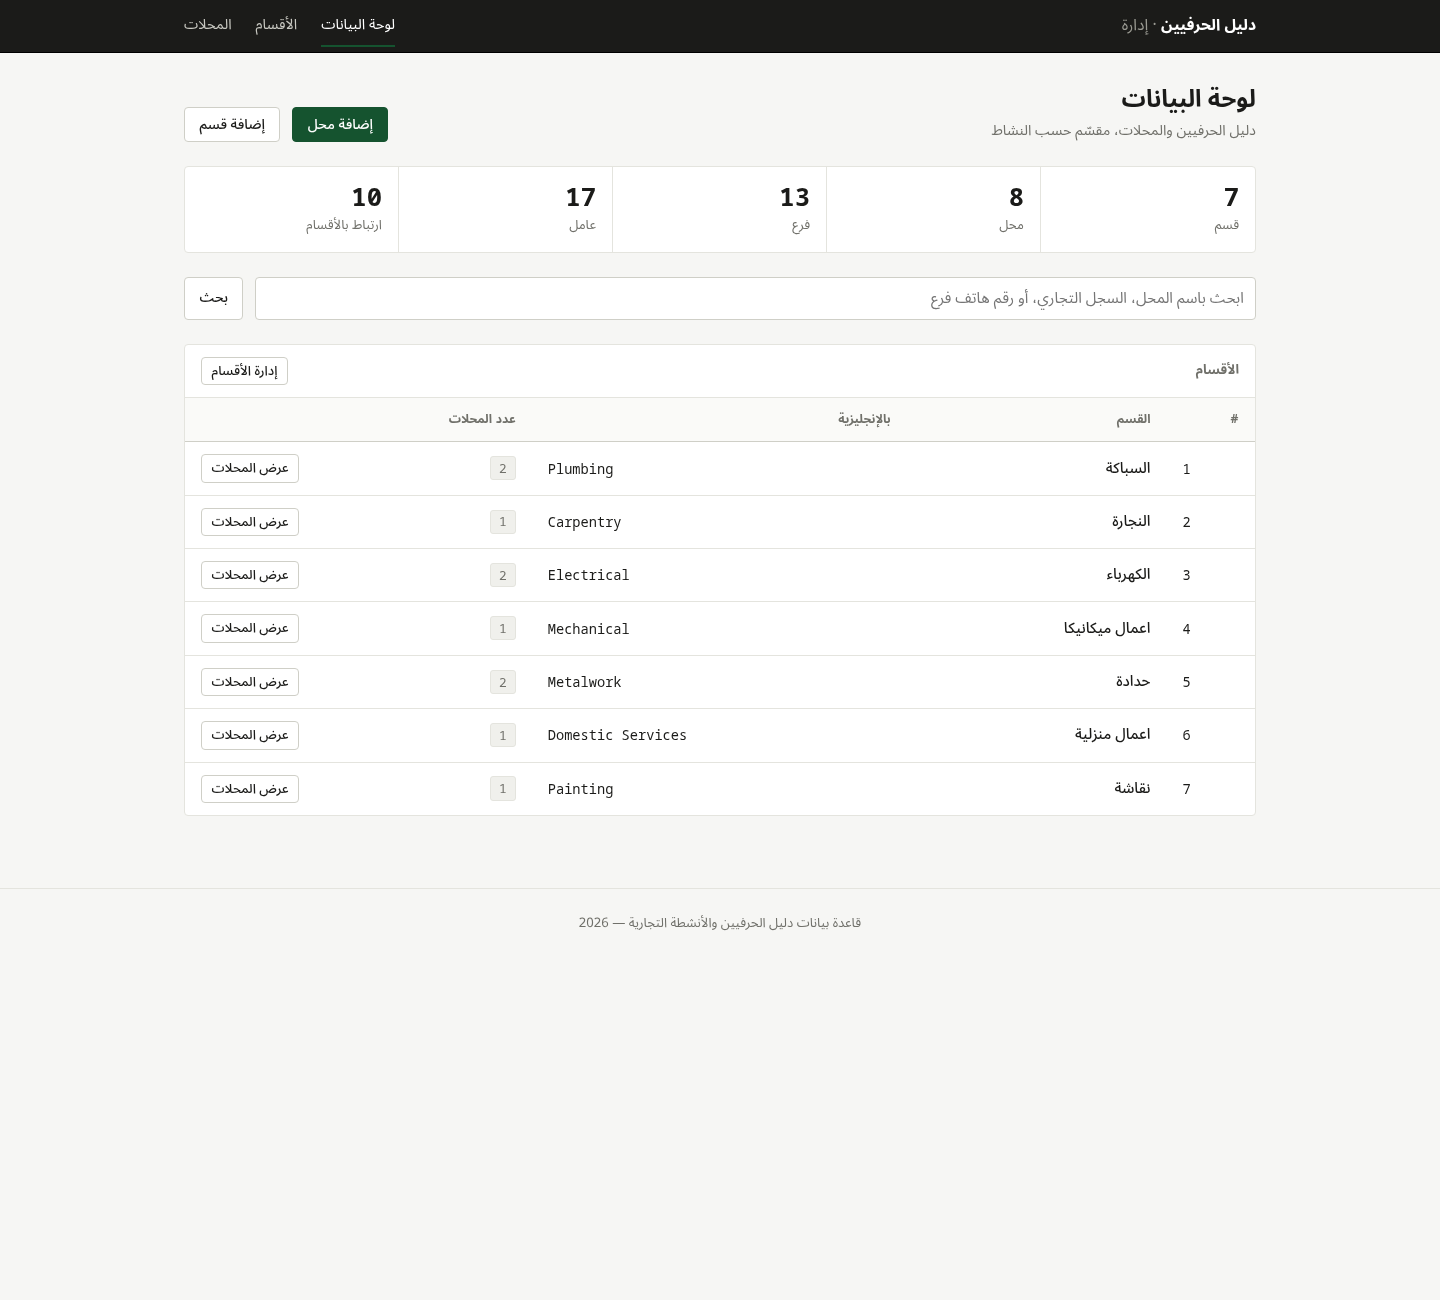
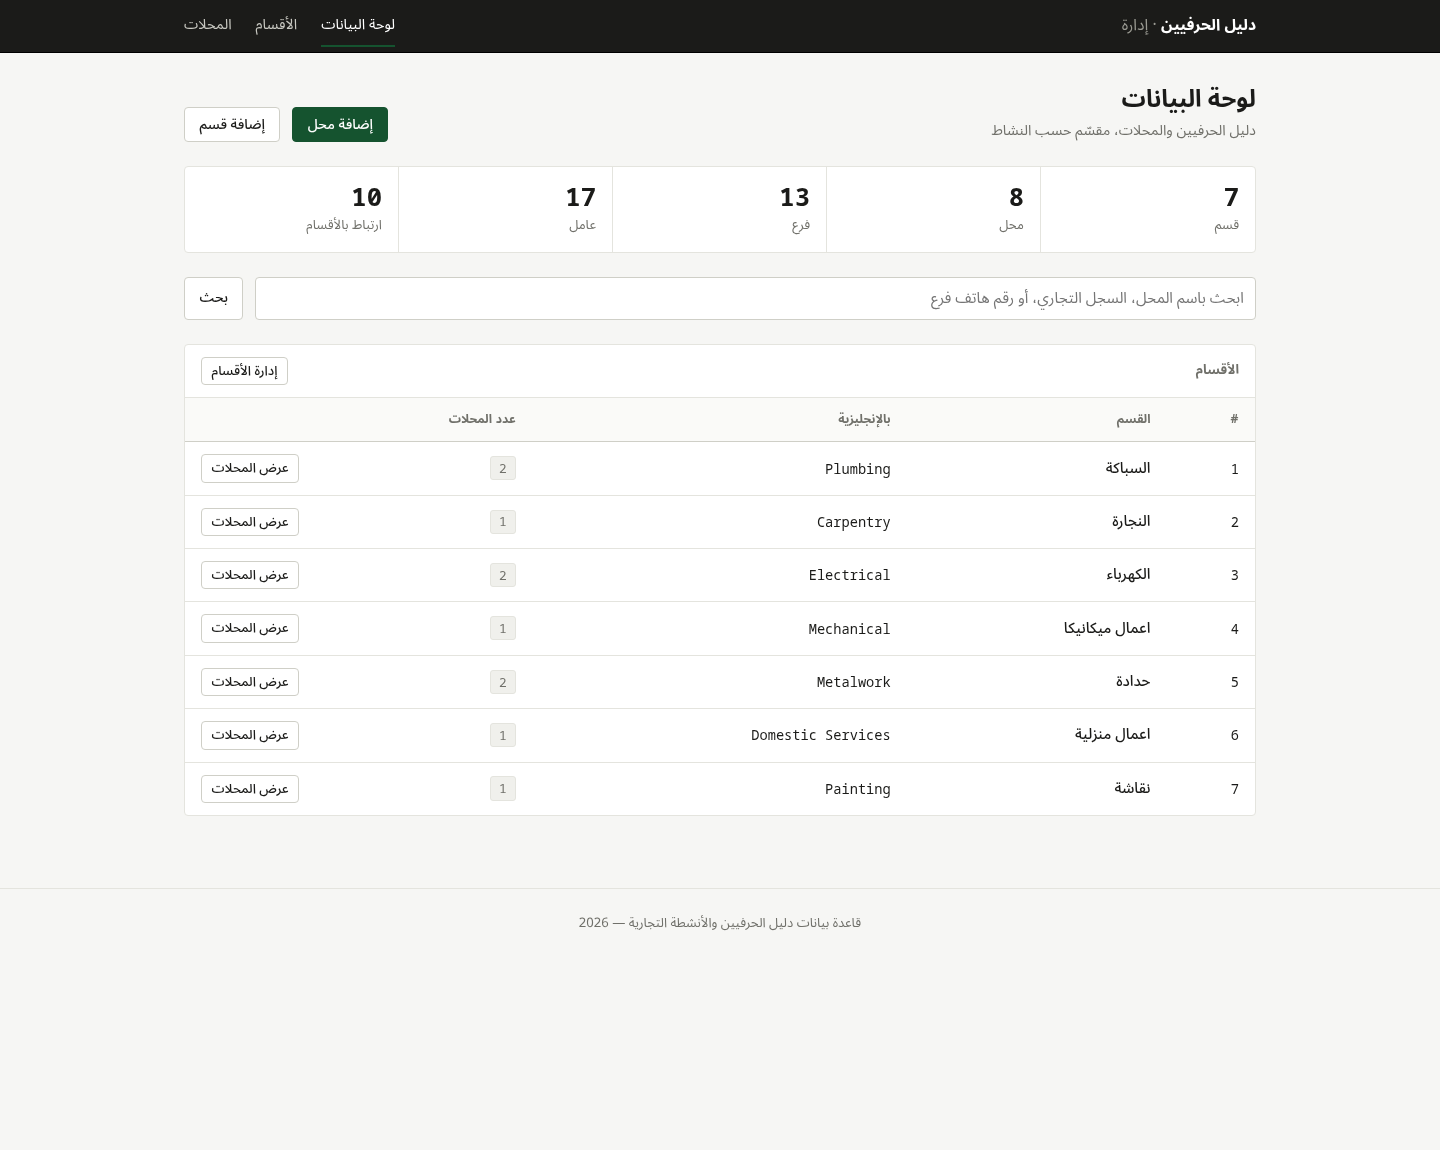
Align table columns under their headers
Identifier cells carry direction: ltr so Latin text and digits order
correctly, and under that direction text-align: start resolved to the left
edge — pulling values away from their right-aligned Arabic headers. Naming the
physical edge keeps each column on one line. Screenshots refreshed.

diff --git a/static/css/style.css b/static/css/style.css
@@ -154,8 +154,13 @@ body {
 /* --- tables ------------------------------------------------------------ */
 .table-wrap { overflow-x: auto; }
 table.data { width: 100%; border-collapse: collapse; font-size: 0.93rem; }
+/* Physical `right`, not logical `start`. Identifier cells carry
+   `direction: ltr` so their Latin text and digits order correctly, and under
+   that direction `start` resolves to the left edge — which pulled the values
+   away from their right-aligned Arabic headers. Naming the edge explicitly
+   keeps every column on one line. */
 table.data th, table.data td {
-  text-align: start;
+  text-align: right;
   padding: var(--sp-3) var(--sp-4);
   border-bottom: 1px solid var(--rule);
   vertical-align: middle;
@@ -172,7 +177,7 @@ table.data thead th {
 }
 table.data tbody tr:last-child td { border-bottom: none; }
 table.data tbody tr:hover { background: #fbfbf9; }
-table.data td.actions { text-align: end; white-space: nowrap; width: 1%; }
+table.data td.actions { text-align: left; white-space: nowrap; width: 1%; }
 table.data a.rowlink { color: var(--ink); text-decoration: none; font-weight: 500; }
 table.data a.rowlink:hover { color: var(--accent); text-decoration: underline; }
 

diff --git a/templates/base.html b/templates/base.html
@@ -7,7 +7,7 @@
   <!-- ?v= is a cache buster. The stylesheet was replaced wholesale at this
        URL, so browsers that had the old one held on to it. Bump the number
        whenever style.css changes in a way people must see immediately. -->
-  <link rel="stylesheet" href="{{ url_for('static', path='css/style.css') }}?v=2">
+  <link rel="stylesheet" href="{{ url_for('static', path='css/style.css') }}?v=3">
 </head>
 <body>
 
